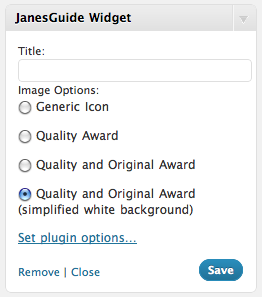
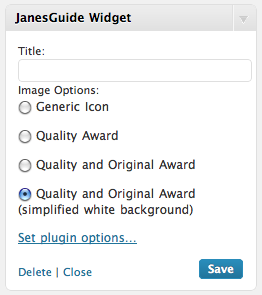
Bump to version 0.3: update readme, plugin version, and screenshot.
git-svn-id: http://svn.wp-plugins.org/wp-janesguide/trunk@186414 b8457f37-d9ea-0310-8a92-e5e31aec5664

diff --git a/wp-janesguide.php b/wp-janesguide.php
@@ -1,7 +1,7 @@
 <?php
 /*
  * Plugin Name: WP-JanesGuide
- * Version: 0.2.1
+ * Version: 0.3
  * Plugin URI: http://maybemaimed.com/playground/wp-janesguide-wordpress-plugin/
  * Description: Easily enables the display of <a href="http://JanesGuide.com">JanesGuide.com</a> awards on your WordPress-generated pages via a widget or template tags.
  * Author: Meitar "maymay" Moscovitz
